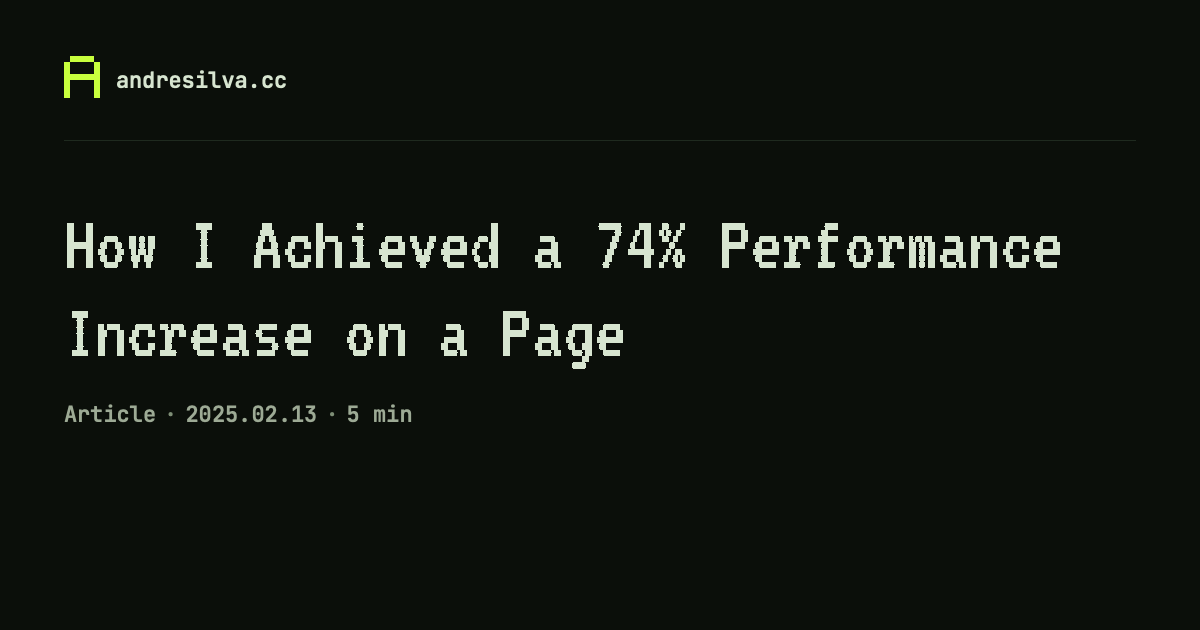
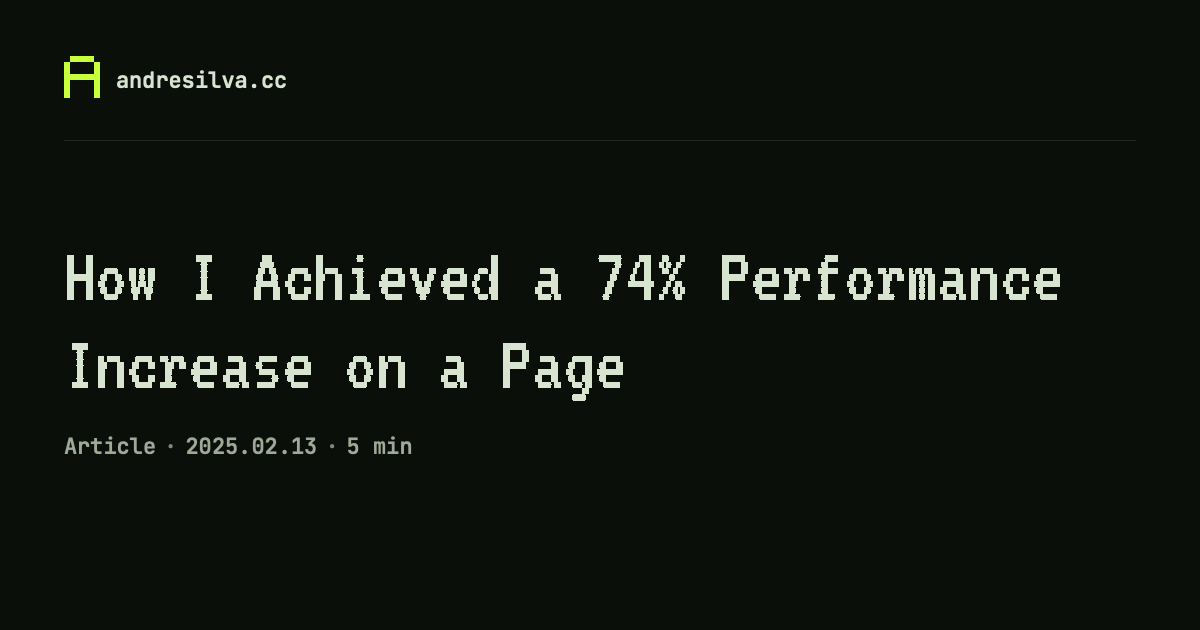
refactor(articles): drop unused updatedAt; top-anchor OG content
updatedAt was never set; modifiedTime, dateModified and sitemap
lastModified now use publishedAt. OG article/note cluster moves to
top:232 so the title lines up with the home card's name.

Claude-Session: https://claude.ai/code/session_014RyGsbqcnj8DWF2x9DtLm8

Changed region(s): [[0.0308, 0.3317, 0.5242, 0.7238], [0.4933, 0.3317, 0.8942, 0.4825]]

diff --git a/src/app/(site)/articles/[slug]/page.tsx b/src/app/(site)/articles/[slug]/page.tsx
@@ -50,7 +50,7 @@ export async function generateMetadata({
       description: article.summary,
       type: 'article',
       publishedTime: article.publishedAt,
-      modifiedTime: article.updatedAt ?? article.publishedAt,
+      modifiedTime: article.publishedAt,
       url: `${SITE_ORIGIN}/articles/${article.slug}`,
       images: [{ url: article.ogImage, width: 1200, height: 630 }],
     },
@@ -81,7 +81,6 @@ export default async function ArticlePage({
   const Content = mdxModule.default as ComponentType<{ components: typeof mdxComponents }>;
 
   const formattedDate = formatDate(article.publishedAt);
-  const formattedUpdated = article.updatedAt ? formatDate(article.updatedAt) : null;
 
   // JSON-LD BlogPosting — per architecture §7.
   // consistent-as-needed quote-props: @-prefixed keys require quotes, so all
@@ -92,7 +91,7 @@ export default async function ArticlePage({
     'headline': article.title,
     'description': article.summary,
     'datePublished': article.publishedAt,
-    'dateModified': article.updatedAt ?? article.publishedAt,
+    'dateModified': article.publishedAt,
     'author': { '@type': 'Person', 'name': 'André Silva', 'url': `${SITE_ORIGIN}/about` },
     'url': `${SITE_ORIGIN}/articles/${article.slug}`,
     'image': `${SITE_ORIGIN}${article.ogImage}`,
@@ -102,8 +101,6 @@ export default async function ArticlePage({
     'inLanguage': 'en',
     'isPartOf': { '@type': 'Blog', 'name': 'andresilva.cc/articles' },
   };
-
-  const updatedPrefix = formattedUpdated ? `Last updated ${formattedUpdated}` : null;
 
   return (
     <article>
@@ -133,12 +130,6 @@ export default async function ArticlePage({
           <span aria-hidden="true"> · </span>
           {`${article.readingTime} min`}
         </Text>
-
-        { updatedPrefix && (
-          <Text variant="meta" as="p" className="mt-1 mb-0 text-fg-subtle italic">
-            { updatedPrefix }
-          </Text>
-        ) }
 
         { article.coverArt && (
           <>

diff --git a/tools/og-article.tsx b/tools/og-article.tsx
@@ -136,12 +136,12 @@ export default function OgArticle({
         }}
       />
 
-      {/* 3. Content cluster — title + meta, flex-column anchored at top:200 */}
+      {/* 3. Content cluster — title + meta, top:232 so title cap-height matches the home card's name */}
       <div
         style={{
           position: 'absolute',
           left: '64px',
-          top: '200px',
+          top: '232px',
           width: '1072px',
           display: 'flex',
           flexDirection: 'column',

diff --git a/tools/og-note.tsx b/tools/og-note.tsx
@@ -113,12 +113,12 @@ export default function OgNote({
         }}
       />
 
-      {/* 3. Content cluster — title + meta, flex-column anchored at top:200 */}
+      {/* 3. Content cluster — title + meta, top:232 so title cap-height matches the home card's name */}
       <div
         style={{
           position: 'absolute',
           left: '64px',
-          top: '200px',
+          top: '232px',
           width: '1072px',
           display: 'flex',
           flexDirection: 'column',

diff --git a/src/app/sitemap.ts b/src/app/sitemap.ts
@@ -16,7 +16,7 @@ export default function sitemap(): MetadataRoute.Sitemap {
 
   const articleRoutes = articles.map((a) => ({
     url: `${SITE_ORIGIN}/articles/${a.slug}`,
-    lastModified: a.updatedAt ?? a.publishedAt,
+    lastModified: a.publishedAt,
   }));
 
   const noteRoutes = notes.map((n) => ({

diff --git a/velite.config.ts b/velite.config.ts
@@ -48,7 +48,6 @@ const article = defineCollection({
       title: s.string(),
       summary: s.string().max(200),
       publishedAt: s.isodate(),
-      updatedAt: s.isodate().optional(),
       tags: s.array(s.string()),
       devtoUrl: s.string().url().optional(),
       coverArt: s

diff --git a/docs/architecture.md b/docs/architecture.md
@@ -406,7 +406,7 @@ src/content/articles/<slug>/index.mdx       (authored source)
 LocalArticlesRepository (sync)  ──▶  /articles, /articles/[slug], /articles/rss.xml, sitemap
 ```
 
-- **Velite** runs at build time, driven by `velite.config.ts`. The `article` collection (`pattern: 'articles/**/index.mdx'`) validates frontmatter against a Zod schema (`title`, `summary` (max 200 chars), `publishedAt`, optional `updatedAt`, `tags`, optional `devtoUrl`, optional `coverArt: { params: string }` — a raw stipple-art param string consumed by `<StippleArt>` on the article page and the article-card thumbnail), compiles the MDX body to a function-body string (via `@mdx-js/mdx`), runs `rehype-pretty-code` with the custom `brutalist-mono` Shiki theme over fenced code blocks, and emits derived fields in `transform()`: `slug` (leaf folder name, validated against a lowercase kebab-case regex with a 60-char cap), `wordCount`, `readingTime` (220 WPM, min 1), and `ogImage` (`/og/articles/<slug>.png`). GFM (tables, task lists, strikethrough, autolinks) is enabled via Velite's built-in default — no explicit `remark-gfm` plugin entry. `rehype-unwrap-images` is registered first to strip the wrapping `<p>` that MDX generates around standalone images so `ImageMdx` can render as a block-level element without invalid nesting.
+- **Velite** runs at build time, driven by `velite.config.ts`. The `article` collection (`pattern: 'articles/**/index.mdx'`) validates frontmatter against a Zod schema (`title`, `summary` (max 200 chars), `publishedAt`, `tags`, optional `devtoUrl`, optional `coverArt: { params: string }` — a raw stipple-art param string consumed by `<StippleArt>` on the article page and the article-card thumbnail), compiles the MDX body to a function-body string (via `@mdx-js/mdx`), runs `rehype-pretty-code` with the custom `brutalist-mono` Shiki theme over fenced code blocks, and emits derived fields in `transform()`: `slug` (leaf folder name, validated against a lowercase kebab-case regex with a 60-char cap), `wordCount`, `readingTime` (220 WPM, min 1), and `ogImage` (`/og/articles/<slug>.png`). GFM (tables, task lists, strikethrough, autolinks) is enabled via Velite's built-in default — no explicit `remark-gfm` plugin entry. `rehype-unwrap-images` is registered first to strip the wrapping `<p>` that MDX generates around standalone images so `ImageMdx` can render as a block-level element without invalid nesting.
 - **Velite's asset handler** copies MDX-referenced images (e.g. `./images/diagram.png`) into `public/static/` with content-hashed filenames, rewrites the URLs in the emitted body, and threads width/height/blurDataURL through the schema. `ImageMdx` consumes those dimensions when mapping `<img>` to `next/image`.
 - **`next.config.mjs`** calls `await build({ silent: true })` at the top level (gated on `NODE_ENV !== 'test'`), so `.velite/` is populated before any module imports from `@/.velite`. The TS path alias `@/.velite` is configured in `tsconfig.json`.
 - **Canonical URLs** — every absolute URL emitted by the site (RSS items, sitemap, JSON-LD, OG meta) is built from the `SITE_ORIGIN` constant in `src/lib/config.ts`. There is one canonical origin, defined in one place.
@@ -432,7 +432,7 @@ LocalNotesRepository (sync)  ──▶  /notes, /notes/page/<n>, /notes/<slug>, 
   - `title: string` — required. Editorial 2-7 word target enforced by `docs/copy-guide.md`, **not** by the schema.
   - `publishedAt: ISO date` — required.
   - `kind: 'til' | 'take' | 'snippet' | 'aside'` — required, closed enum (`z.enum([...])`).
-  - No `updatedAt`, no `tags`, no `coverArt`, no `summary`, no reading time.
+  - No `tags`, no `coverArt`, no `summary`, no reading time.
   - `raw: s.raw()` — the unprocessed body text, read in-transform (for the JSX-allowlist check and `excerpt` derivation) and destructured out, so it is **not** present on the emitted type.
 - **Derived fields in `transform()`**: `slug` (from filename via `s.path()`, validated against the same lowercase kebab-case `SLUG_RE` and `SLUG_MAX_LEN = 60` constants reused from the article collection), `excerpt` (a plaintext, markdown-stripped ~140-char preview of the body, used as the `<description>` in the notes RSS feed — falls back to the title when the body is code-only), and `ogImage` (`/og/notes/<slug>.png` — see below). No `wordCount` / `readingTime`.
 - **Body compilation**: same MDX pipeline as articles — `@mdx-js/mdx` compile to function-body string; same rehype stack (`rehype-unwrap-images` first, then `rehype-pretty-code` with the `brutalist-mono` Shiki theme); GFM via Velite's built-in default. No component restrictions in the page-level MDX components map.

diff --git a/docs/ui-spec.md b/docs/ui-spec.md
@@ -271,7 +271,7 @@ A 2-column grid at `md+` (`grid-cols-article-card` — 240px left, body right) *
 2. **Identity cluster** (page header)
    - **H1 title** — `Text variant="h1"` in `--fg`. **Not** `t-display` / VT323 — the display register is reserved for the Home identity moment (standing rule). Article titles get the standard h1 mono treatment so 50+ posts at varying lengths read consistently.
    - **Summary** — `Text variant="body"`, `--fg-muted`, capped at `--prose-w-wide` (matches the body column below).
-   - **Meta strip** — single `<p>` with `<time dateTime>` (in `--fg-muted`) followed by `·` and `${readingTime} min` (in `--fg-subtle`). **No tags inline** (Q1 reversal — tags render as chips in the footer only). Optional second meta line `Last updated {date}` in italic `--fg-subtle` when `updatedAt` is set.
+   - **Meta strip** — single `<p>` with `<time dateTime>` (in `--fg-muted`) followed by `·` and `${readingTime} min` (in `--fg-subtle`). **No tags inline** (Q1 reversal — tags render as chips in the footer only).
 3. **Cover art** (optional — only when `article.coverArt` is present in frontmatter)
    - Preceded by a `<hr>` rule (8px top margin) to separate the identity cluster from the visual.
    - `<section aria-label="Cover art">` containing a `.article-cover-art` frame: `border border-rule bg-canvas`, `overflow-hidden`, `max-w-prose-wide`, aspect ratio `16 / 7` on desktop and `4 / 3` on mobile (set in `globals.css`). Standing rule 19 — identity surface keeps the border even though the art is transparent.
@@ -311,7 +311,7 @@ A 2-column grid at `md+` (`grid-cols-article-card` — 240px left, body right) *
 
 - Article record: `articlesRepository.getBySlug(slug)` (Velite-compiled MDX from `content/articles/*.mdx`).
 - Compiled MDX body: `article.body` (function-body string) is `run()` through `@mdx-js/mdx` at request time — build-time-trusted input, not user input.
-- Frontmatter schema (title, summary, publishedAt, updatedAt, readingTime, wordCount, tags, devtoUrl, coverArt, ogImage): see `architecture.md` and `articles-decision-log.md` §4.
+- Frontmatter schema (title, summary, publishedAt, readingTime, wordCount, tags, devtoUrl, coverArt, ogImage): see `architecture.md` and `articles-decision-log.md` §4.
 
 ---
 
@@ -385,7 +385,7 @@ The document outline on `/notes` is `page-h1 (NOTES)` — and nothing else. Each
 1. **Top return** — `<ArrowLink direction="back">back to notes</ArrowLink>` pointing to `/notes`, sitting above the note block (`pt-8`). Mirrors the article-detail pattern; gives keyboard and mouse users a one-tab exit before they commit to reading.
 2. **Note block** — a single `<NoteBlock surface="detail" />`. Cluster order: `<h1>` title → meta → MDX body.
 3. **Bottom return** — `<ArrowLink direction="back">back to notes</ArrowLink>` again, sitting in a `pb-12` block so the last interactive element clears the footer border by a comfortable margin. Duplicating the top return is the same convention used on `/articles/[slug]` — top for short-attention exit, bottom for end-of-read return.
-4. **JSON-LD `BlogPosting`** — `<script type="application/ld+json">` block at the end of the page. Carries `headline` (note title), `datePublished` (note `publishedAt`), `author`, `url` (canonical `/notes/{slug}`), `image` (absolute `/og/notes/default.png` — the single shared notes OG card, see `architecture.md` §7), `inLanguage` (`en`), and `isPartOf` (`andresilva.cc/notes`). No `description` (notes have no `summary`), no `wordCount` / `timeRequired` (notes have no reading-time metadata), no `keywords` (notes have no tags), no `dateModified` (notes have no `updatedAt`). Server Component, no client overhead.
+4. **JSON-LD `BlogPosting`** — `<script type="application/ld+json">` block at the end of the page. Carries `headline` (note title), `datePublished` (note `publishedAt`), `author`, `url` (canonical `/notes/{slug}`), `image` (absolute `/og/notes/default.png` — the single shared notes OG card, see `architecture.md` §7), `inLanguage` (`en`), and `isPartOf` (`andresilva.cc/notes`). No `description` (notes have no `summary`), no `wordCount` / `timeRequired` (notes have no reading-time metadata), no `keywords` (notes have no tags), no `dateModified`. Server Component, no client overhead.
 
 **No prev/next chronological nav.** The detail page does not surface older/newer affordances — the back-link to `/notes` is the only navigation off the page. This matches `/articles/[slug]`, which also has no inter-article nav. Readers traverse the feed from the index, not laterally between detail pages.
 
